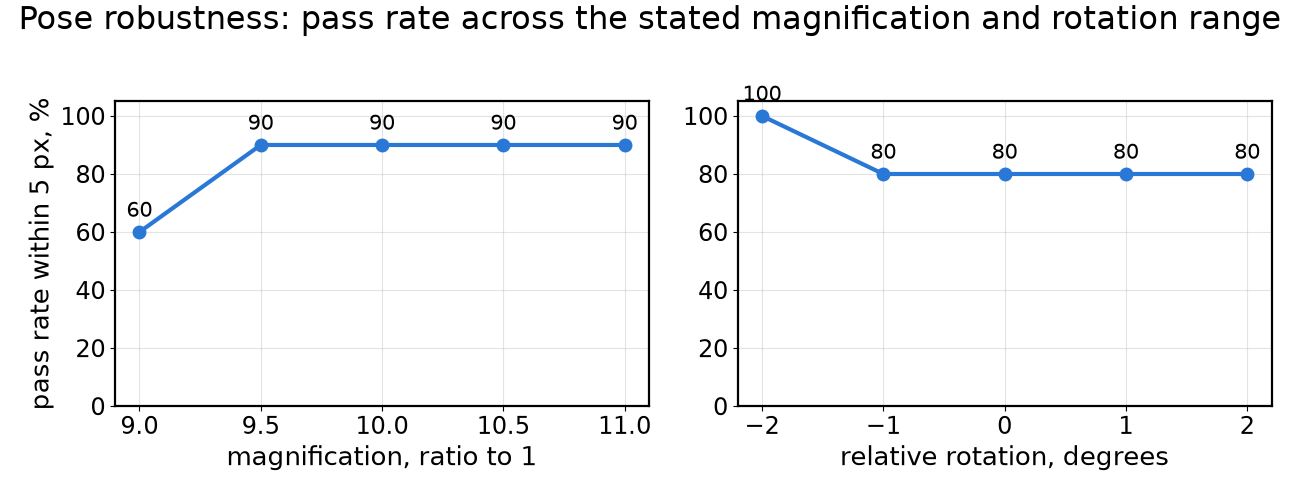
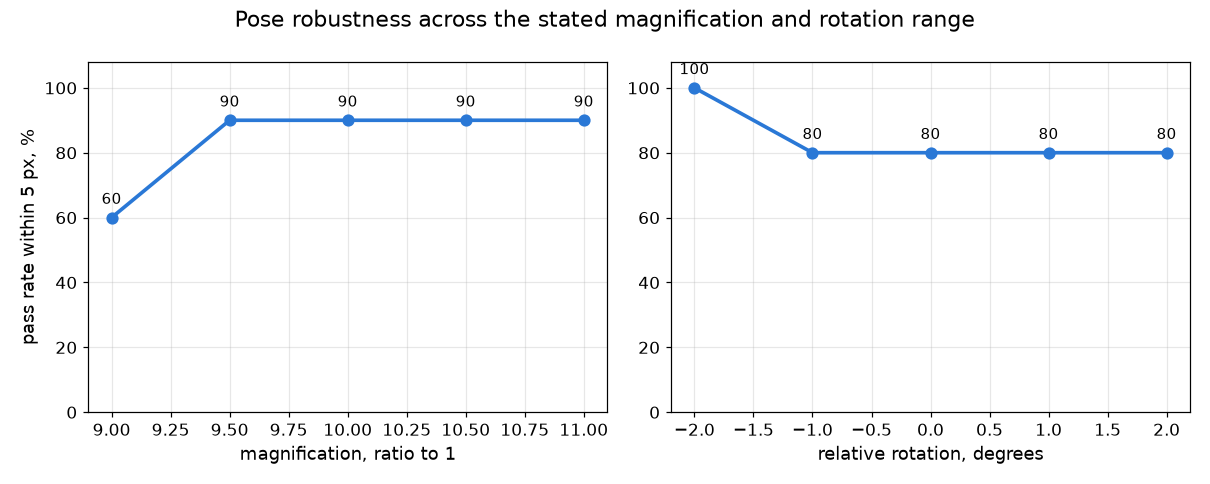
Fold the pose robustness and precision recall plots into the readme figure script so every chart the readme shows is drawn directly from the recorded experiment folders, importing the evaluation script's own precision and average precision functions so a figure cannot quote a number the experiment r

Changed region(s): [[0.0, 0.124, 1.0, 0.9607], [0.0, 0.0, 1.0, 0.062]]

diff --git a/scripts/make_readme_figures.py b/scripts/make_readme_figures.py
@@ -13,11 +13,18 @@ import json
 import shutil
 from pathlib import Path
 
+import sys
+
 import matplotlib
 matplotlib.use("Agg")
 import matplotlib.pyplot as plt
 import numpy as np
 from PIL import Image
+
+sys.path.insert(0, str(Path(__file__).resolve().parent))
+# the curve and its average precision come from the evaluation script itself, so
+# the README cannot quote a number the experiment record does not hold
+from evaluate_tiers import average_precision, precision_recall
 
 REPO = Path(__file__).resolve().parent.parent
 OUT = REPO / "docs" / "images"
@@ -130,6 +137,60 @@ def confidence_regimes():
     print("wrote confidence_regimes.png")
 
 
+def pose_robustness():
+    rows = list(csv.DictReader(open(latest("experiments/*_pose_robustness_final") / "results.csv")))
+    fig, axes = plt.subplots(1, 2, figsize=(11, 4.4), dpi=110)
+    for ax, key, xlabel in ((axes[0], "magnification", "magnification, ratio to 1"),
+                            (axes[1], "rotation_deg", "relative rotation, degrees")):
+        buckets = {}
+        for r in rows:
+            buckets.setdefault(float(r[key]), []).append(float(r["err_px"]) <= 5.0)
+        xs = sorted(buckets)
+        ys = [100.0 * np.mean(buckets[x]) for x in xs]
+        ax.plot(xs, ys, "o-", color=BLUE, linewidth=2.4, markersize=7)
+        ax.set_xlabel(xlabel)
+        ax.set_ylim(0, 108)
+        ax.grid(alpha=0.3)
+        ax.set_axisbelow(True)
+        for x, y in zip(xs, ys):
+            ax.annotate(f"{y:.0f}", (x, y), textcoords="offset points",
+                        xytext=(0, 9), ha="center", fontsize=10)
+    axes[0].set_ylabel("pass rate within 5 px, %")
+    fig.suptitle("Pose robustness across the stated magnification and rotation range")
+    fig.tight_layout()
+    fig.savefig(OUT / "pose_robustness.png")
+    plt.close(fig)
+    print("wrote pose_robustness.png")
+
+
+def precision_recall_by_tier():
+    rows = list(csv.DictReader(open(latest("experiments/*_tier_report_final") / "results.csv")))
+    fig, ax = plt.subplots(figsize=(8.6, 4.8), dpi=110)
+    colours = {"low": BLUE, "medium": GREEN, "high": ORANGE, "severe": RED}
+    for tier in ("low", "medium", "high", "severe"):
+        sub = [(float(r["confidence"]), float(r["err_px"]) <= 5.0)
+               for r in rows if r["tier"] == tier]
+        if not sub:
+            continue
+        sub.sort(key=lambda p: -p[0])
+        prec, rec = precision_recall([c for c, _ in sub], [ok for _, ok in sub])
+        ap = average_precision(prec, rec)
+        ax.plot(rec, prec, "-", color=colours[tier], linewidth=2.2,
+                label=f"{tier}  (AP={ap:.2f})")
+    ax.set_xlabel("recall")
+    ax.set_ylabel("precision")
+    ax.set_title("Confidence ranked precision and recall, by noise tier")
+    ax.set_xlim(0, 1.02)
+    ax.set_ylim(0, 1.05)
+    ax.grid(alpha=0.3)
+    ax.set_axisbelow(True)
+    ax.legend(loc="lower left")
+    fig.tight_layout()
+    fig.savefig(OUT / "precision_recall.png")
+    plt.close(fig)
+    print("wrote precision_recall.png")
+
+
 def copy_experiment_figures():
     wanted = {
         "montage_success.png": latest("experiments/*_final_physics/plots") ,
@@ -140,14 +201,12 @@ def copy_experiment_figures():
         if folder and (folder / name).exists():
             shutil.copy(folder / name, OUT / name)
             print("copied", name)
-    for name in ("pose_robustness.png", "precision_recall.png"):
-        if src.exists():
-            shutil.copy(src, OUT / name)
-            print("copied", name)
 
 
 if __name__ == "__main__":
     input_pair()
     accuracy_by_domain()
     confidence_regimes()
+    pose_robustness()
+    precision_recall_by_tier()
     copy_experiment_figures()

diff --git a/README.md b/README.md
@@ -204,13 +204,9 @@ Every run writes into a timestamped folder under `experiments/`, holding the con
 | 4 | Model weights | [models/reranker.npz](models/reranker.npz), [models/reranker.pt](models/reranker.pt) | the submitted inference path is **not** deep learning; the optional re-ranker is off by default and is loaded automatically from `models/` when `--reranker` is passed, with no path editing. Inference reads the numpy `.npz`, so no framework is required; the training script writes the `.pt` as the same weights in PyTorch format |
 | 5 | Training script or notebook | [notebooks/train_reranker.ipynb](notebooks/train_reranker.ipynb), [scripts/train_reranker.py](scripts/train_reranker.py) | reproduces the whole chain: generate, harvest candidates, train, calibrate, export, and verify that the numpy and torch forward passes agree |
 | 6 | requirements.txt | [requirements.txt](requirements.txt), [requirements_freeze.txt](requirements_freeze.txt) | `requirements.txt` is the pinned runtime set the inference and generation scripts need, and is the file to install: a clean clone plus this file was verified end to end from a fresh virtual environment. `requirements_freeze.txt` is the complete `pip freeze` of the development environment, including the test and training only packages |
-| 7 | Citation document | [docs/citations.md](docs/citations.md), [references/references.bib](references/references.bib) | 27 references, each verified against the publisher and each tied to the specific parameter or noise model it supports; these are the sources cited in the presentation |
+| 7 | Citation document | [docs/citations.md](docs/citations.md), [references/references.bib](references/references.bib) | 27 references, each verified against the publisher and each tied to the specific parameter or noise model it supports; these are the sources cited in the submission |
 
-
-
-```
-```
-
+Also included beyond the required list: the complete experiment record under `experiments/`, the results tables under `results/`, the figures behind this page under `docs/images/`, and an automated test suite under `tests/`. A recorded walkthrough of the system running end to end is linked from the submission rather than stored here, so this repository holds the project itself.
 
 ## Repository layout
 
